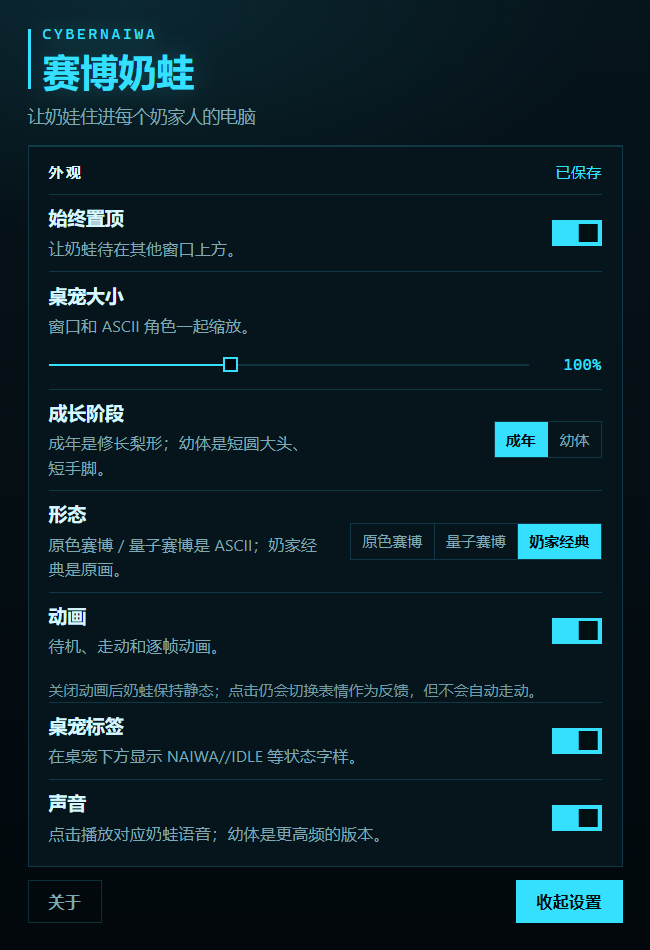
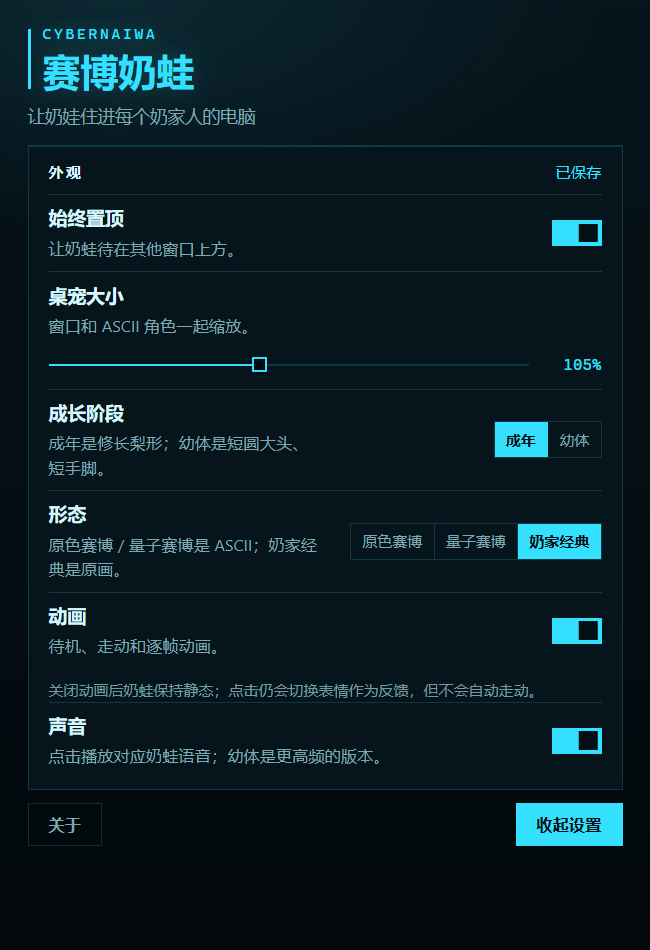
align classic idle color and derive HUD from palette

diff --git a/src/i18n/strings.ts b/src/i18n/strings.ts
@@ -32,8 +32,6 @@ export interface UiStrings {
     animation: string;
     animationHint: string;
     animationNote: string;
-    hud: string;
-    hudHint: string;
     sound: string;
     soundHint: string;
     about: string;
@@ -88,8 +86,6 @@ const ZH: UiStrings = {
     animationHint: "待机、走动和逐帧动画。",
     animationNote:
       "关闭动画后奶蛙保持静态；点击仍会切换表情作为反馈，但不会自动走动。",
-    hud: "桌宠标签",
-    hudHint: "在桌宠下方显示 NAIWA//IDLE 等状态字样。",
     sound: "声音",
     soundHint: "点击播放对应奶蛙语音；幼体是更高频的版本。",
     about: "关于",
@@ -167,8 +163,6 @@ const EN: UiStrings = {
     animationHint: "Idle, walking and frame-by-frame motion.",
     animationNote:
       "With animation off, Naiwa holds still. Clicks still change the expression, but there's no automatic walking.",
-    hud: "Status label",
-    hudHint: "Show the NAIWA//IDLE status line below the pet.",
     sound: "Sound",
     soundHint: "Play the matching Naiwa voice line on click; the baby uses a higher-pitched version.",
     about: "About",

diff --git a/src/components/Settings.tsx b/src/components/Settings.tsx
@@ -271,24 +271,6 @@ export default function Settings() {
 
         <div className="settings-row">
           <div className="settings-row__copy">
-            <span className="settings-label">{strings.settings.hud}</span>
-            <span className="settings-hint">{strings.settings.hudHint}</span>
-          </div>
-          <button
-            type="button"
-            role="switch"
-            aria-label={strings.settings.hud}
-            aria-checked={settings.hudEnabled}
-            className={`toggle${settings.hudEnabled ? " is-on" : ""}`}
-            onClick={() => update({ hudEnabled: !settings.hudEnabled })}
-            disabled={!loaded}
-          >
-            <span className="toggle__thumb" />
-          </button>
-        </div>
-
-        <div className="settings-row">
-          <div className="settings-row__copy">
             <span className="settings-label">{strings.settings.sound}</span>
             <span className="settings-hint">{strings.settings.soundHint}</span>
           </div>

diff --git a/src/components/Pet.tsx b/src/components/Pet.tsx
@@ -249,7 +249,7 @@ export default function Pet() {
           <path d="M19.4 15a1.65 1.65 0 0 0 .33 1.82l.06.06a2 2 0 1 1-2.83 2.83l-.06-.06a1.65 1.65 0 0 0-1.82-.33 1.65 1.65 0 0 0-1 1.51V21a2 2 0 1 1-4 0v-.09a1.65 1.65 0 0 0-1-1.51 1.65 1.65 0 0 0-1.82.33l-.06.06a2 2 0 1 1-2.83-2.83l.06-.06a1.65 1.65 0 0 0 .33-1.82 1.65 1.65 0 0 0-1.51-1H3a2 2 0 1 1 0-4h.09a1.65 1.65 0 0 0 1.51-1 1.65 1.65 0 0 0-.33-1.82l-.06-.06a2 2 0 1 1 2.83-2.83l.06.06a1.65 1.65 0 0 0 1.82.33h.01a1.65 1.65 0 0 0 1-1.51V3a2 2 0 1 1 4 0v.09a1.65 1.65 0 0 0 1 1.51 1.65 1.65 0 0 0 1.82-.33l.06-.06a2 2 0 1 1 2.83 2.83l-.06.06a1.65 1.65 0 0 0-.33 1.82v.01a1.65 1.65 0 0 0 1.51 1H21a2 2 0 1 1 0 4h-.09a1.65 1.65 0 0 0-1.51 1Z" />
         </svg>
       </button>
-      {settings.hudEnabled ? (
+      {settings.palette !== "classic" ? (
         <div className="pet-hud" aria-hidden="true">
           <span className={`pet-hud-dot${ready ? " is-online" : ""}`} />
           NAIWA//{PET_STATE_LABELS[state]}

diff --git a/src/styles/pet.css b/src/styles/pet.css
@@ -334,6 +334,21 @@
   animation: hud-pulse 2.4s ease-in-out infinite;
 }
 
+/* ASCII forms keep the status line; the classic artwork hides it. Original
+   uses its warm body yellow and quantum keeps the existing cyan. */
+.pet-stage--palette-original .pet-hud {
+  color: rgba(255, 216, 77, 0.62);
+}
+
+.pet-stage--palette-original .pet-hud-dot {
+  background: rgba(255, 216, 77, 0.28);
+}
+
+.pet-stage--palette-original .pet-hud-dot.is-online {
+  background: #ffd84d;
+  box-shadow: 0 0 6px rgba(255, 216, 77, 0.9);
+}
+
 .speech-bubble {
   position: absolute;
   z-index: 5;

diff --git a/src/services/settings.ts b/src/services/settings.ts
@@ -54,10 +54,6 @@ export function normalizeSettings(value: unknown): PetSettings {
       typeof value.soundEnabled === "boolean"
         ? value.soundEnabled
         : DEFAULT_SETTINGS.soundEnabled,
-    hudEnabled:
-      typeof value.hudEnabled === "boolean"
-        ? value.hudEnabled
-        : DEFAULT_SETTINGS.hudEnabled,
     // The app UI is Chinese-only; English lives in README.en.md.
     language: "zh",
     age: value.age === "baby" ? "baby" : "adult",

diff --git a/src/types/pet.ts b/src/types/pet.ts
@@ -38,7 +38,6 @@ export interface PetSettings {
   scale: number;
   animationsEnabled: boolean;
   soundEnabled: boolean;
-  hudEnabled: boolean;
   language: Language;
   age: PetAge;
   palette: PetPalette;
@@ -54,7 +53,6 @@ export const DEFAULT_SETTINGS: PetSettings = {
   scale: 1,
   animationsEnabled: true,
   soundEnabled: true,
-  hudEnabled: true,
   language: "zh",
   age: "adult",
   palette: "cyber",

diff --git a/src/assets/pets/index.ts b/src/assets/pets/index.ts
@@ -5,7 +5,7 @@ import {
   CYBER_NAIWA_CYBER_FRAMES,
   CYBER_NAIWA_FRAMES,
 } from "./cyber-naiwa/frames";
-import adultIdle from "./classic/adult-idle.png";
+import adultIdle from "./classic/adult-idle-aligned.png";
 import adultWave from "./classic/adult-wave.png";
 import babyIdle from "./classic/baby-idle.png";
 import babyHappy from "./classic/baby-happy.png";

diff --git a/DEVELOPMENT.md b/DEVELOPMENT.md
@@ -125,7 +125,8 @@ CyberNaiwa/
 - 原色赛博帧在 `naiwa-frames.json` / `naiwa-baby-frames.json`：112 列 × 70 行；量子赛博帧在 `naiwa-cyber-frames.json` / `naiwa-cyber-baby-frames.json`：128 列 × 80 行。用 `.` 表示透明格。帧由官方设计资料库的成年 / 幼体 / 大笑 / 挥手参考图逐像素映射到字符 tone；仓库不包含参考图片本身。
 - 幼体挥手源图裁切框从 `X=365/W=270` 改为 `X=310/W=285`：原框正好从 V 字手中间切过，导致手指缺失；新框完整包住中间幼体的抬手，112×70 与 128×80 两套网格都已重新采样。
 - `PetAnimation` 根据 `settings.palette` 选择帧组：`original` 走 `frames` / `babyFrames`，`cyber` 走 `cyberFrames` / `cyberBabyFrames`，`classic` 直接切到图片皮肤 `naiwa-classic`。ASCII JSON 仍只有 5 个基础动作的帧；`index.ts` 把 run/look/think/clap/eat/crouch 映射到最接近的现有姿态（run=walk、look/think=idle、clap=wave、eat=idle、crouch=wave），并让 HUD、语音、时长保持独立。幼体不使用新动作；左键动作栈永远不引用 happy/click。
-- 奶家经典图片皮肤：成年 idle 用 `adult-idle.png`，wave/扎马步用 `adult-wave.png`，happy/click 用 `laugh-hd/000–024.webp`（524×720，90ms/帧，来自 1080×1474 原片 6.5–8.75s 抽 25 帧，去白底/地面阴影，3% padding，Lanczos 缩到 720 高，不锐化）；walk/run/look/think/clap/eat/crouch 用 `classic/actions/<state>/` 的逐帧 PNG。动作帧统一补齐到 180×210 画布、底部对齐到 y=204（6px 底边距），所以脚和膝盖不会被裁。幼体 idle/walk、happy/click、wave 各用一张原画。`laugh/` 保留 180×180 的 MIT 原始帧，`laugh-cropped/` 是紧裁中间帧，`laugh-hires/` 是 648×888 的 6× 回退放大版；当前产品路径是 `laugh-hd`。
+- 奶家经典图片皮肤：成年 idle 用 `adult-idle-aligned.png`（原 `adult-idle.png` ×1.09 亮度、×0.80 饱和度，向动作帧的明度/饱和度靠拢，原图保留），wave/扎马步用 `adult-wave.png`，happy/click 用 `laugh-hd/000–024.webp`（524×720，90ms/帧，来自 1080×1474 原片 6.5–8.75s 抽 25 帧，去白底/地面阴影，3% padding，Lanczos 缩到 720 高，不锐化）；walk/run/look/think/clap/eat/crouch 用 `classic/actions/<state>/` 的逐帧 PNG。动作帧统一补齐到 180×210 画布、底部对齐到 y=204（6px 底边距），所以脚和膝盖不会被裁。幼体 idle/walk、happy/click、wave 各用一张原画。`laugh/` 保留 180×180 的 MIT 原始帧，`laugh-cropped/` 是紧裁中间帧，`laugh-hires/` 是 648×888 的 6× 回退放大版；当前产品路径是 `laugh-hd`。
+- HUD 渲染规则：`Pet.tsx` 只在 `settings.palette !== "classic"` 时渲染 `NAIWA//STATE`；原色赛博用暖黄 `rgba(255,216,77,0.62)` + 黄点，量子赛博沿用蓝色 `rgba(126,249,255,0.6)` + 青点，奶家经典不渲染 HUD。设置页不再有「桌宠标签」开关，`hudEnabled` 从 `PetSettings` 移除。
 - 图片尺寸用 `height: 78vh; width: auto`，不是 `max-height`：原图小于窗口时也会放大。图片底部对齐 stage 内容底边，保留 22px 底部 padding；成年待机和动作的角色高约 280px，47 张动作帧的 alpha 最外像素距画布边缘至少 6px，映射到窗口后脚底距底边约 30px。
 - 奶家经典每个动作的帧间隔由 `frameIntervalMsByState` 控制；happy/click 仍用全局 `frameIntervalMs: 90`。
 - 图片皮肤的点击命中按 alpha 判断：`usePetInteraction` 把点击坐标换算到 `naturalWidth × naturalHeight`，首次读取时把当前图片画进 canvas 并按 `currentSrc` 缓存，alpha > 16 才算命中。透明像素不触发点击/语音/字幕，但拖动仍由整个 `.pet-stage` 接管。
@@ -141,7 +142,7 @@ CyberNaiwa/
 ## 设置持久化
 
 - 使用官方 `tauri-plugin-store`，文件 `settings.json`，`autoSave: false`，显式 `save()`。
-- 键 `settings`：`{ alwaysOnTop, scale, animationsEnabled, soundEnabled, hudEnabled, language, age, palette }`。`hudEnabled` 控制桌宠下方 `NAIWA//IDLE` 是否显示，旧设置缺省为 `true`。
+- 键 `settings`：`{ alwaysOnTop, scale, animationsEnabled, soundEnabled, language, age, palette }`。HUD 不再持久化：`palette !== "classic"` 时显示 `NAIWA//IDLE`，原色用暖黄、量子用蓝色；奶家经典不渲染 HUD。旧设置里的 `hudEnabled` 直接忽略。
 - 键 `windowPosition`：`{ x, y }`（物理像素）。
 - 读取时做类型校验和范围夹取：`scale` 限制在 0.7–1.5，`language` 只接受 `zh/en`，`age` 只接受 `adult/baby`，`palette` 只接受 `original/cyber/classic`，非法值回退默认 `cyber`。
 - App 界面固定中文（设置页不再提供语言切换）；README 保留 `README.en.md`。托盘语言固定调用 `zh`，设置窗口标题为中文。
@@ -271,4 +272,5 @@ cargo check --manifest-path src-tauri/Cargo.toml
 - 2026-11-16 add 47 Nailong-Studio action frames (MIT) to `classic/actions`, padded to a 180×210 bottom-aligned canvas; add per-state image intervals/new HUD labels; ASCII forms reuse the closest existing poses for the new actions so the shared stack does not require low-quality 112×70 conversions.
 - 2026-11-16 replace the classic laugh with 25 high-resolution frames extracted from the 1080×1474 `naiwa-laugh.mp4` at 6.50–8.75 s: remove the white background/floor shadow, pad 3%, Lanczos-downscale to 524×720, save transparent WebP at 90 ms/frame; keep `laugh-hires` as the MIT 180×180 upscale fallback.
 - 2026-11-16 add an always-visible top-right gear button for Settings (middle-click still works and is explained as pressing the scroll wheel), and fix the ASCII action aliases so clap/eat never reuse the laugh frames; the left-click stack now only uses wave/idle/walk poses and right-click remains the sole laugh trigger.
+- 2026-11-16 brighten the classic standing artwork (`adult-idle-aligned.png`, ×1.09 brightness / ×0.80 colour) to match the action frames, remove the persisted HUD toggle and the settings row, and derive HUD visibility/colour from the palette: Original warm yellow, Quantum blue, Classic hidden.
 - 2026-11-16 bump to 0.2.1 and replace `docs/settings.png` with the 赛博奶蛙 settings screenshot (原色模式/量子模式, no sleep copy, version 0.2.1).

diff --git a/README.en.md b/README.en.md
@@ -64,7 +64,7 @@ Baby preview:
 
 <img src="docs/settings.png" alt="CyberNaiwa settings" width="420" />
 
-Always-on-top, size, adult/baby, the three forms, animation, the status label, and sound live in one panel; About opens on demand and takes no main-panel space. The console uses the Quantum Cyber blue-black terminal palette.
+Always-on-top, size, adult/baby, the three forms, animation, and sound live in one panel; About opens on demand and takes no main-panel space. The console uses the Quantum Cyber blue-black terminal palette. The `NAIWA//IDLE` line no longer has a toggle: Original Cyber uses a warm-yellow HUD, Quantum Cyber keeps the blue HUD, and Naiwa Classic shows no HUD.
 
 ## Stack
 
@@ -133,13 +133,13 @@ The official `tauri-plugin-store` writes `settings.json` to the app data directo
 - Windows: `%APPDATA%\com.cybernaiwa.desktop\settings.json`
 - macOS: `~/Library/Application Support/com.cybernaiwa.desktop/settings.json`
 
-Two keys live in that file: `settings` (always-on-top, scale, animation, sound, status label, adult/baby, Original Cyber / Quantum Cyber / Naiwa Classic) and `windowPosition` (physical pixels). Nothing is synced anywhere.
+Two keys live in that file: `settings` (always-on-top, scale, animation, sound, adult/baby, Original Cyber / Quantum Cyber / Naiwa Classic) and `windowPosition` (physical pixels). Nothing is synced anywhere.
 
 ## Character art
 
 The default `cyber-naiwa` skin stores Original Cyber adult/baby frames in `naiwa-frames.json` and `naiwa-baby-frames.json` (112×70), and Quantum Cyber adult/baby frames in `naiwa-cyber-frames.json` and `naiwa-cyber-baby-frames.json` (128×80). Each set covers five base poses; adult happy/click use 25 frames each, other base states use two, and the baby uses two per state. The extra adult actions (run/look/think/clap/eat/crouch) are registered in `index.ts` as aliases of the closest base pose, with their own HUD labels, timing and durations. `frames.ts` maps characters to colour tones and declares frame timing. The 25 adult laugh frames come from [liaosongjie/Codex-Voice-Input](https://github.com/liaosongjie/Codex-Voice-Input)'s MIT animation frames (fixed-crop conversion to ASCII); the other grids were pixel-mapped from the official design database's adult, juvenile, laugh, and wave references. No ASCII reference image files themselves are shipped in the repo. The app icon is taken from the baby's Original Cyber ASCII idle frame instead of being drawn separately.
 
-The `naiwa-classic` skin lives in `src/assets/pets/classic/`: adult idle/wave and all three baby states are transparent cut-outs of the official design reference sheets; adult happy/click uses `classic/laugh-hd/000–024.webp`, extracted from the 1080×1474 `naiwa-laugh.mp4` at 6.5–8.75 s. The 25 frames have their white background and floor shadow removed, keep 3% padding, and are Lanczos-downscaled to 524×720 with no sharpening at 90 ms each. `classic/laugh/` keeps the original 180×180 MIT frames and `classic/laugh-hires/` keeps the 648×888 6× upscale fallback. The video source has no explicit redistribution licence in `SOURCES.md`; the project owner approved its fan-use inclusion, and the skin can switch back to `laugh-hires` if needed. Action frames use `classic/actions/<action>/` padded to 180×210 with a 6 px bottom margin. Images scale to the window height so the body stays about 280 px and the feet stay visible. The cut-out/upscale scripts are `_qa/make-classic-cutouts.ps1`, `_qa/crop-classic-laugh.ps1`, `_qa/upscale-classic-laugh.py`, `_qa/build-hd-laugh.py`, and `_qa/build-classic-actions.py` (`_qa/` is not committed). This is fan-made, non-commercial use; source and licence notes are in `_qa/reference/official/laugh/SOURCES.md`.
+The `naiwa-classic` skin lives in `src/assets/pets/classic/`: adult idle uses the brightened `adult-idle-aligned.png` (original cut-out ×1.09 brightness, ×0.80 colour to match the action frames' luminance/saturation), adult wave and all three baby states are transparent cut-outs of the official design reference sheets; adult happy/click uses `classic/laugh-hd/000–024.webp`, extracted from the 1080×1474 `naiwa-laugh.mp4` at 6.5–8.75 s. The 25 frames have their white background and floor shadow removed, keep 3% padding, and are Lanczos-downscaled to 524×720 with no sharpening at 90 ms each. `classic/laugh/` keeps the original 180×180 MIT frames and `classic/laugh-hires/` keeps the 648×888 6× upscale fallback. The video source has no explicit redistribution licence in `SOURCES.md`; the project owner approved its fan-use inclusion, and the skin can switch back to `laugh-hires` if needed. Action frames use `classic/actions/<action>/` padded to 180×210 with a 6 px bottom margin. Images scale to the window height so the body stays about 280 px and the feet stay visible. The cut-out/upscale scripts are `_qa/make-classic-cutouts.ps1`, `_qa/crop-classic-laugh.ps1`, `_qa/upscale-classic-laugh.py`, `_qa/build-hd-laugh.py`, and `_qa/build-classic-actions.py` (`_qa/` is not committed). This is fan-made, non-commercial use; source and licence notes are in `_qa/reference/official/laugh/SOURCES.md`.
 
 Want to try a PNG/WEBP/GIF skin? `src/assets/pets/README.md` shows how to register an `ImagePetSkin`. The renderer already handles both ASCII and image sequences. Please only add art you have the right to redistribute.
 

diff --git a/README.md b/README.md
@@ -64,7 +64,7 @@
 
 <img src="docs/settings.png" alt="赛博奶蛙设置页" width="420" />
 
-透明置顶、桌宠大小、成年/幼体、三种形态、动画开关、桌宠标签开关和声音开关都在同一个面板里；「关于」按需打开，不占主面板空间。控制台使用量子赛博的蓝黑终端配色。
+透明置顶、桌宠大小、成年/幼体、三种形态、动画开关和声音开关都在同一个面板里；「关于」按需打开，不占主面板空间。控制台使用量子赛博的蓝黑终端配色。桌宠下方的 `NAIWA//IDLE` 不再提供开关：原色赛博用暖黄、量子赛博用蓝色 HUD，奶家经典不显示 HUD。
 
 ## 技术栈
 
@@ -133,13 +133,13 @@ pnpm tauri build --bundles dmg
 - Windows：`%APPDATA%\com.cybernaiwa.desktop\settings.json`
 - macOS：`~/Library/Application Support/com.cybernaiwa.desktop/settings.json`
 
-文件里有两个键：`settings`（置顶、缩放、动画、声音、桌宠标签、成年/幼体、原色赛博/量子赛博/奶家经典）和 `windowPosition`（物理像素坐标）。没有云端同步。
+文件里有两个键：`settings`（置顶、缩放、动画、声音、成年/幼体、原色赛博/量子赛博/奶家经典）和 `windowPosition`（物理像素坐标）。没有云端同步。
 
 ## 角色素材
 
 默认 ASCII 角色 `cyber-naiwa` 的原色赛博成年帧在 `src/assets/pets/cyber-naiwa/naiwa-frames.json`，幼体帧在 `naiwa-baby-frames.json`（112×70）；量子赛博成年/幼体帧在 `naiwa-cyber-frames.json`、`naiwa-cyber-baby-frames.json`（128×80）。现有帧覆盖 idle / walk / happy / click / wave；成年 happy/click 各 25 帧，其余状态每态 2 帧；幼体每态 2 帧。新增的 run / look / think / clap / eat / crouch 在 `src/assets/pets/index.ts` 复用最接近的现有 ASCII 姿态，但保留独立 HUD 标签、帧间隔和动作时长。字符 tone、帧间隔和渲染逻辑在 `frames.ts`。成年大笑的 25 帧来自 [liaosongjie/Codex-Voice-Input](https://github.com/liaosongjie/Codex-Voice-Input) 的 MIT 动画帧（固定取景后转成 ASCII）；其余帧由官方设计资料库中的成年 / 幼体 / 大笑 / 挥手参考图逐像素映射生成，ASCII 帧的参考图片本身不入库。应用图标取自幼体原色赛博 ASCII 待机帧，不再单独绘制。
 
-奶家经典皮肤 `naiwa-classic` 在 `src/assets/pets/classic/`：成年待机/挥手和幼体三态是官方设计参考图的透明抠图；成年 happy/click 使用 `classic/laugh-hd/000–024.webp`，从 1080×1474 的 `naiwa-laugh.mp4` 6.5–8.75 秒抽 25 帧，去掉白底和地面阴影，统一留 3% 边距后 Lanczos 缩到 524×720，不做锐化，90ms/帧。`classic/laugh/` 保留原始 180×180 MIT 帧，`classic/laugh-hires/` 保留 648×888 的 6× 放大回退版；视频源的再分发许可记录不完整，已按项目所有者确认作为粉丝二创使用，必要时可切回 `laugh-hires`。走、跑、张望、思考、鼓掌、进食、蹲伏使用 `classic/actions/<action>/` 的逐帧原画，来自 [Nailong-Studio/NaiWa-Wallpaper](https://github.com/Nailong-Studio/NaiWa-Wallpaper) 的 MIT 素材，统一补齐到 180×210 画布、底部留 6px，所以脚和膝盖不会被窗口裁掉。图片按窗口高度缩放，成年待机和动作的身体高度约 280px。抠图/放大/补帧脚本是 `_qa/make-classic-cutouts.ps1`、`_qa/crop-classic-laugh.ps1`、`_qa/upscale-classic-laugh.py`、`_qa/build-hd-laugh.py` 和 `_qa/build-classic-actions.py`（`_qa/` 不入库）。这部分是粉丝二创非商业使用，来源与授权说明见 `_qa/reference/official/laugh/SOURCES.md`。
+奶家经典皮肤 `naiwa-classic` 在 `src/assets/pets/classic/`：成年待机使用调亮版 `adult-idle-aligned.png`（原抠图 ×1.09 亮度、×0.80 饱和度，向动作帧的明度/饱和度靠拢），成年挥手和幼体三态是官方设计参考图的透明抠图；成年 happy/click 使用 `classic/laugh-hd/000–024.webp`，从 1080×1474 的 `naiwa-laugh.mp4` 6.5–8.75 秒抽 25 帧，去掉白底和地面阴影，统一留 3% 边距后 Lanczos 缩到 524×720，不做锐化，90ms/帧。`classic/laugh/` 保留原始 180×180 MIT 帧，`classic/laugh-hires/` 保留 648×888 的 6× 放大回退版；视频源的再分发许可记录不完整，已按项目所有者确认作为粉丝二创使用，必要时可切回 `laugh-hires`。走、跑、张望、思考、鼓掌、进食、蹲伏使用 `classic/actions/<action>/` 的逐帧原画，来自 [Nailong-Studio/NaiWa-Wallpaper](https://github.com/Nailong-Studio/NaiWa-Wallpaper) 的 MIT 素材，统一补齐到 180×210 画布、底部留 6px，所以脚和膝盖不会被窗口裁掉。图片按窗口高度缩放，成年待机和动作的身体高度约 280px。抠图/放大/补帧脚本是 `_qa/make-classic-cutouts.ps1`、`_qa/crop-classic-laugh.ps1`、`_qa/upscale-classic-laugh.py`、`_qa/build-hd-laugh.py` 和 `_qa/build-classic-actions.py`（`_qa/` 不入库）。这部分是粉丝二创非商业使用，来源与授权说明见 `_qa/reference/official/laugh/SOURCES.md`。
 
 想换成 PNG/WEBP/GIF 皮肤时，按 `src/assets/pets/README.md` 的说明注册 `ImagePetSkin` 即可，渲染器同时支持 ASCII 和图片序列。请不要提交没有 redistribution 权限的素材。
 

diff --git a/design-qa.md b/design-qa.md
@@ -203,6 +203,14 @@
 - 齿轮按钮 `.pet-settings-button` 存在，程序化点击后设置窗 `visibility: visible`；按钮在鼠标悬停时变亮。
 - `pnpm build` 通过。
 
+## 2026-11-16 — Phase 25：经典站立提亮与 HUD 规则
+
+- 用户反馈：奶家经典站立原画比其他形态/动作帧更深；其他颜色不动，只把站立稍微提亮。
+- 原站立帧 mean luminance 154.9 / saturation 163.7；动作 walk 170.8 / 129.3、run 172.9 / 130.6。用 PIL 对原图做 ×1.09 亮度、×0.80 色彩，生成 `adult-idle-aligned.png`，实测 170.9 / 137.4，接近动作帧；原 `adult-idle.png` 保留。
+- 删除设置页「桌宠标签」开关和 `hudEnabled` 持久化字段；旧设置里的 `hudEnabled` 直接忽略。
+- HUD 规则改为按形态派生：原色赛博显示暖黄 `rgba(255,216,77,0.62)` + 黄点；量子赛博保持蓝色 `rgba(126,249,255,0.6)` + 青点；奶家经典不渲染 HUD。
+- 验证：设置页标签只剩 始终置顶 / 桌宠大小 / 成长阶段 / 形态 / 动画 / 声音，520×760 下 `clientHeight 760 / scrollHeight 760`；原色 HUD 计算色为暖黄，量子为青色，经典 `hud: false`；`docs/settings.png` 和 `docs/preview-classic.png` 已更新；`pnpm build` 通过。
+
 ## 待人工确认
 
 - 托盘菜单的物理点击仍需在桌面通知区实际点一遍；窗口 show/hide/设置/退出逻辑已实现。

diff --git a/src/assets/pets/README.md b/src/assets/pets/README.md
@@ -31,6 +31,10 @@ upscale fallback built from the 180×180 MIT frames (`classic/laugh/`), and
 `classic/laugh-cropped/` keeps the tight 108×148 crop. The video source has no
 explicit redistribution licence in `SOURCES.md`; the project owner approved its
 fan-use inclusion, and it can be swapped back to `laugh-hires` if needed.
+`adult-idle-aligned.png` is the product standing frame: the original cut-out is
+multiplied by 1.09 brightness and 0.80 colour, bringing its mean
+luminance/saturation close to the Nailong action frames. `adult-idle.png` keeps
+the unmodified cut-out.
 
 Adult walk/run/look/think/clap/eat/crouch live in `classic/actions/<state>/`.
 They come from the Nailong-Studio `pet/` MIT frame sequences, padded to a
